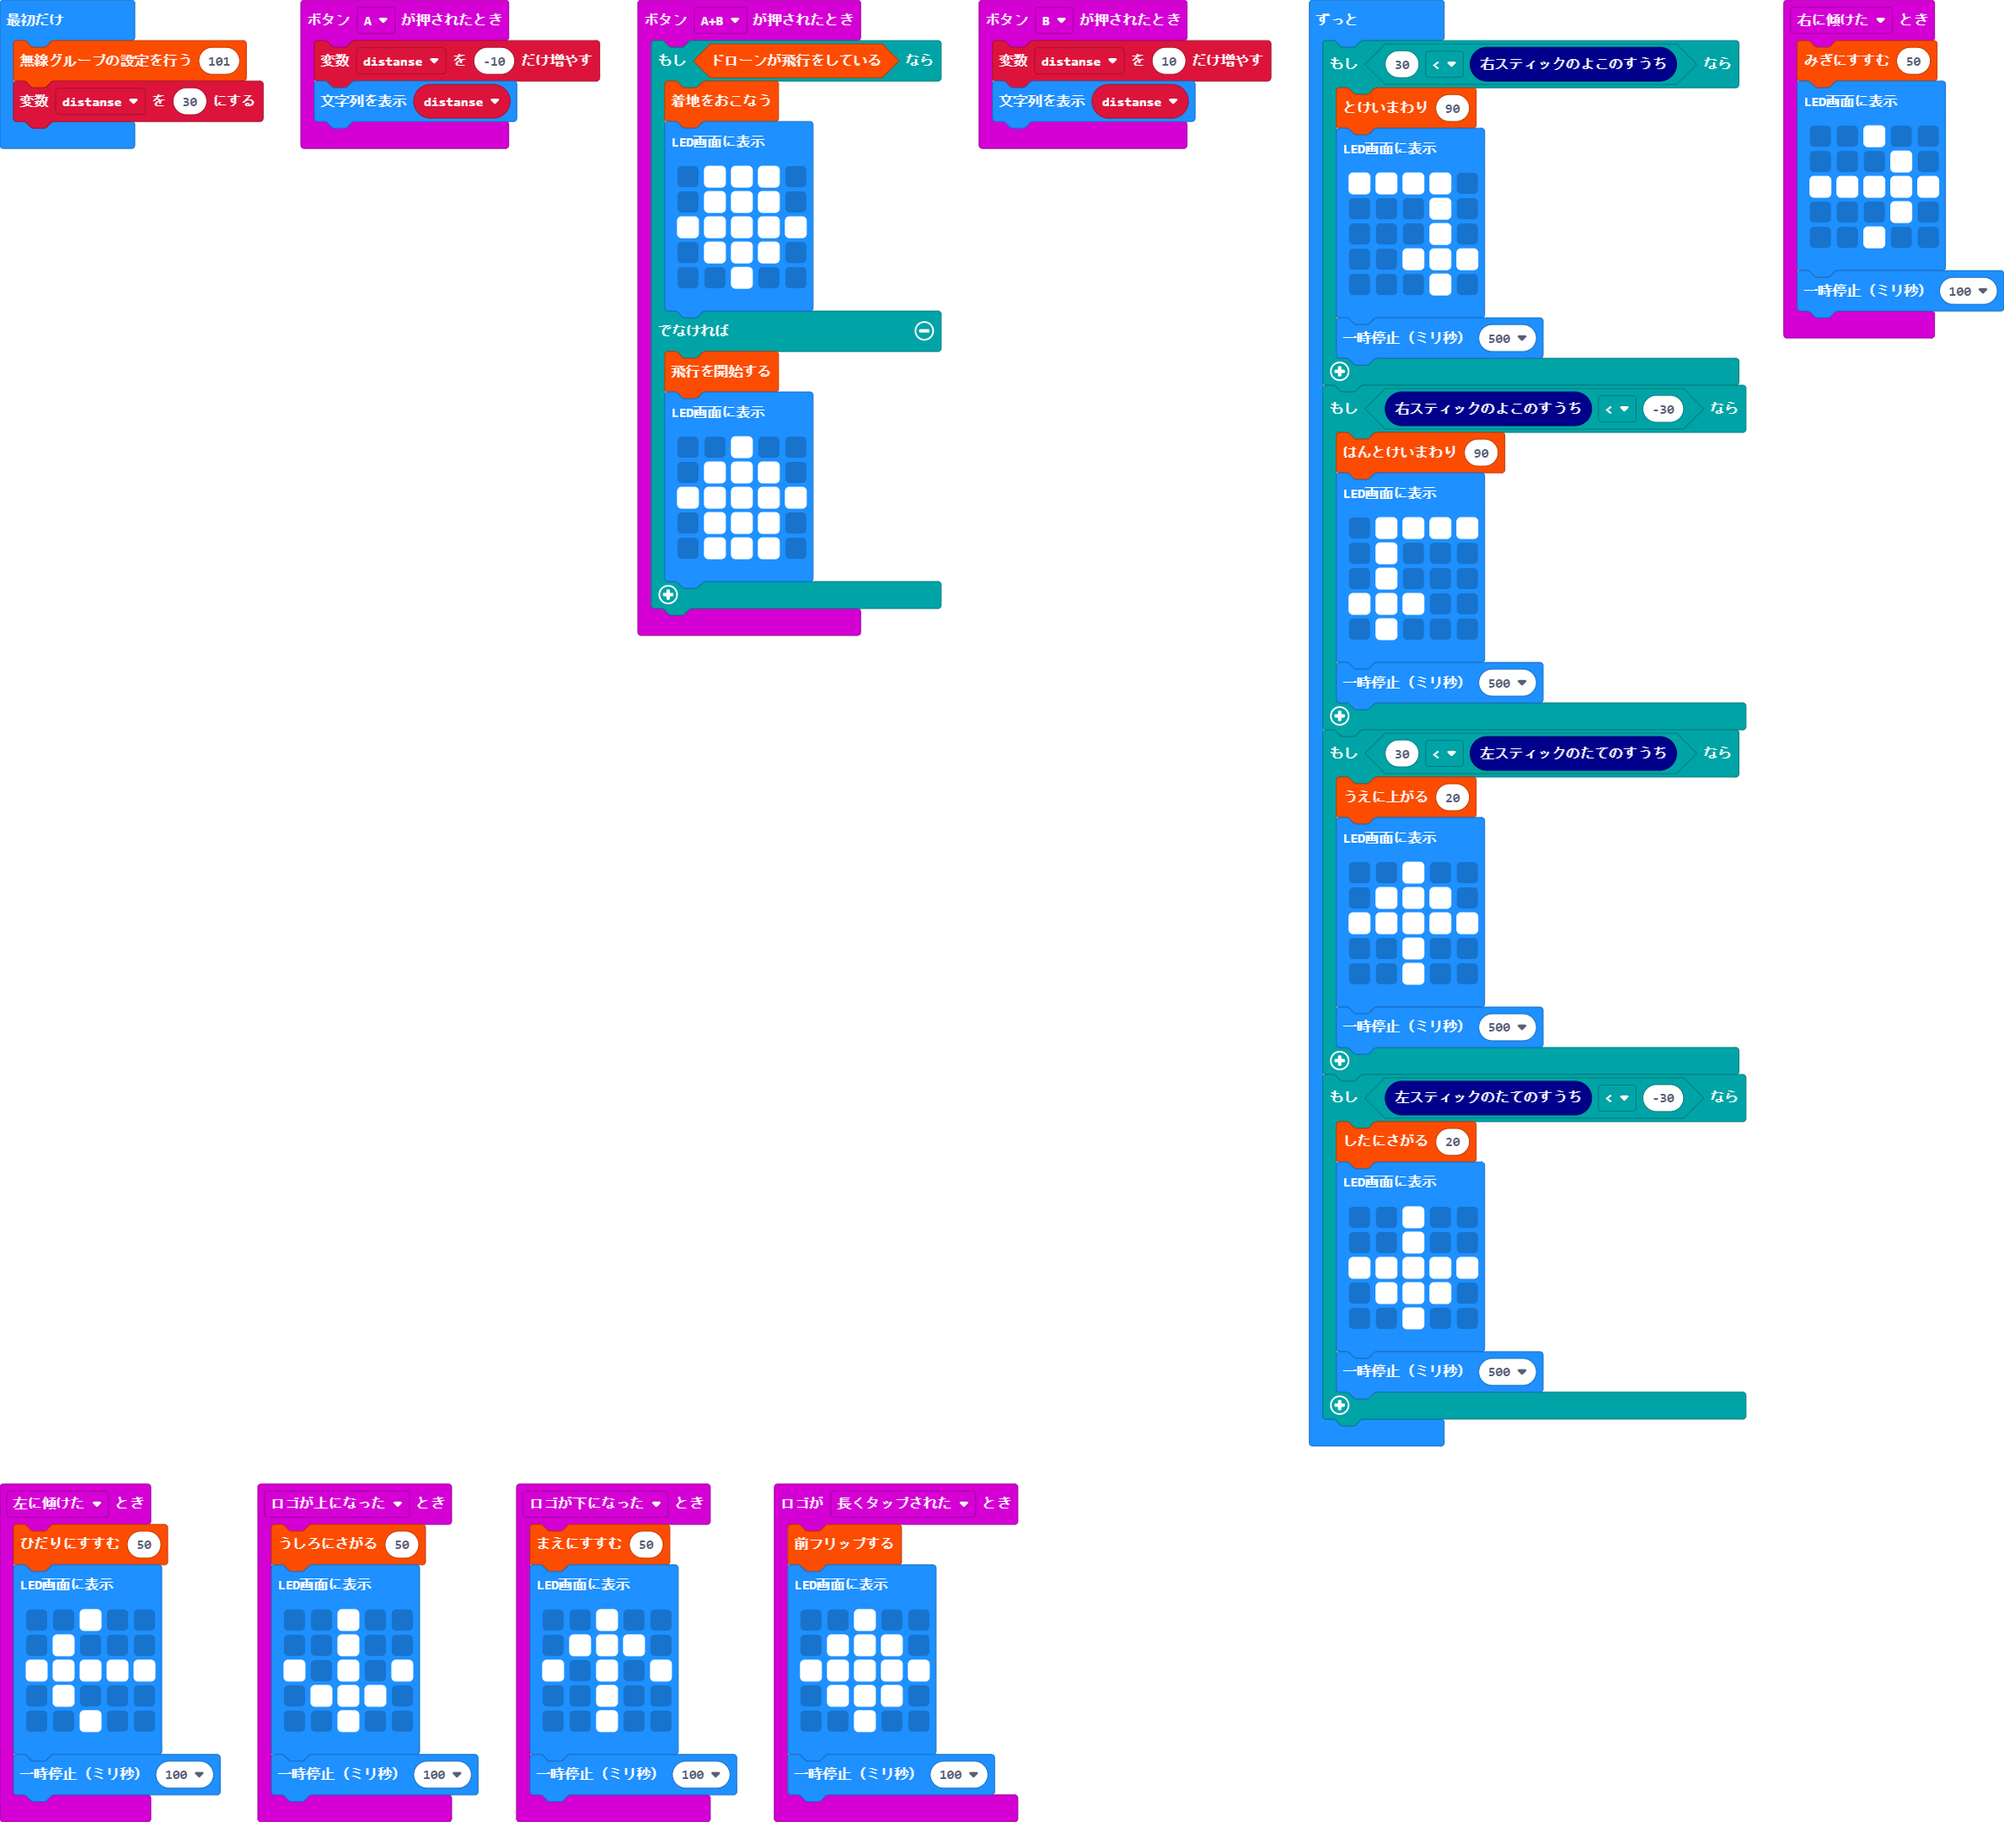
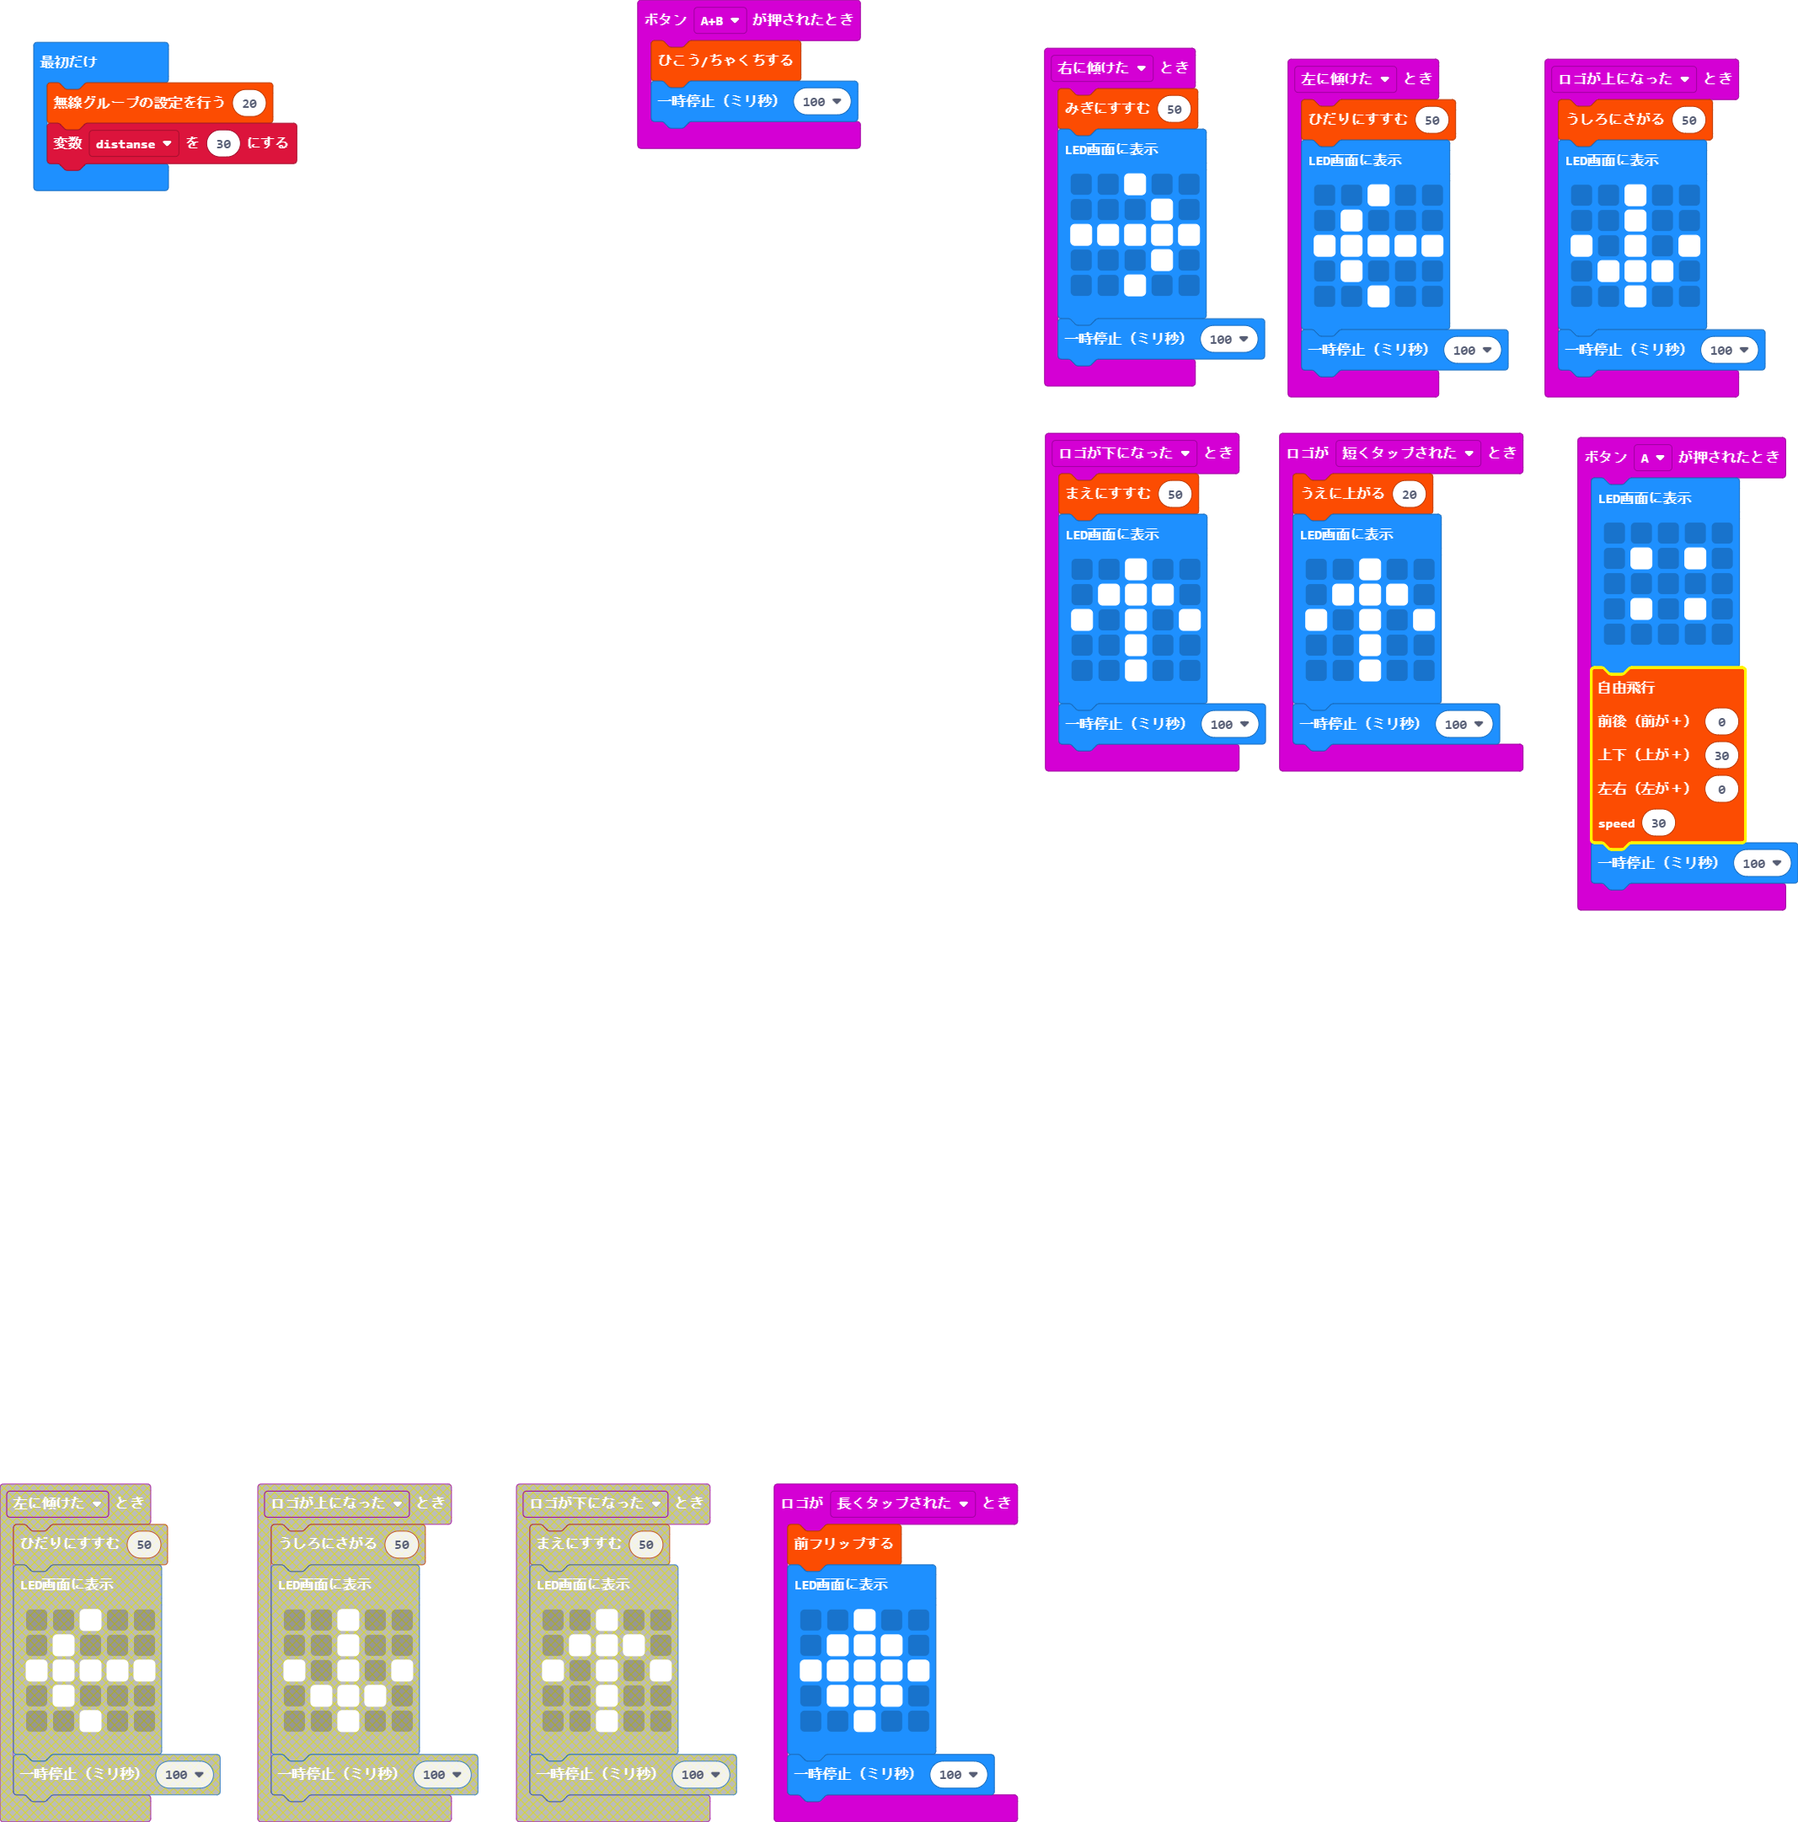
xyzの変更

diff --git a/main.ts b/main.ts
@@ -21,8 +21,20 @@ input.onGesture(Gesture.TiltRight, function () {
     basic.pause(100)
 })
 input.onButtonPressed(Button.A, function () {
-    distanse += -10
-    basic.showString("" + (distanse))
+    basic.showLeds(`
+        . . . . .
+        . # . # .
+        . . . . .
+        . # . # .
+        . . . . .
+        `)
+    Tello.xyz(
+    0,
+    30,
+    0,
+    30
+    )
+    basic.pause(100)
 })
 input.onGesture(Gesture.TiltLeft, function () {
     Tello.left(50)
@@ -58,76 +70,19 @@ input.onGesture(Gesture.LogoDown, function () {
     basic.pause(100)
 })
 input.onButtonPressed(Button.AB, function () {
-    if (Tello.getflying()) {
-        Tello.land()
-        basic.showLeds(`
-            . # # # .
-            . # # # .
-            # # # # #
-            . # # # .
-            . . # . .
-            `)
-    } else {
-        Tello.takeoff()
-        basic.showLeds(`
-            . . # . .
-            . # # # .
-            # # # # #
-            . # # # .
-            . # # # .
-            `)
-    }
+    Tello.fly_or_land()
+    basic.pause(100)
 })
-input.onButtonPressed(Button.B, function () {
-    distanse += 10
-    basic.showString("" + (distanse))
+input.onLogoEvent(TouchButtonEvent.Pressed, function () {
+    Tello.up(20)
+    basic.showLeds(`
+        . . # . .
+        . # # # .
+        # . # . #
+        . . # . .
+        . . # . .
+        `)
+    basic.pause(100)
 })
-let distanse = 0
-Tello.radiosetgroup(101)
-distanse = 30
-basic.forever(function () {
-    if (30 < dronecontroller.getright_X()) {
-        Tello.rotate_cw(90)
-        basic.showLeds(`
-            # # # # .
-            . . . # .
-            . . . # .
-            . . # # #
-            . . . # .
-            `)
-        basic.pause(500)
-    }
-    if (dronecontroller.getright_X() < -30) {
-        Tello.rotate_ccw(90)
-        basic.showLeds(`
-            . # # # #
-            . # . . .
-            . # . . .
-            # # # . .
-            . # . . .
-            `)
-        basic.pause(500)
-    }
-    if (30 < dronecontroller.getleft_Y()) {
-        Tello.up(20)
-        basic.showLeds(`
-            . . # . .
-            . # # # .
-            # # # # #
-            . . # . .
-            . . # . .
-            `)
-        basic.pause(500)
-    }
-    if (dronecontroller.getleft_Y() < -30) {
-        Tello.down(20)
-        basic.showLeds(`
-            . . # . .
-            . . # . .
-            # # # # #
-            . # # # .
-            . . # . .
-            `)
-        basic.pause(500)
-    }
-})
+Tello.radiosetgroup(20)
+let distanse = 30

diff --git a/custom.ts b/custom.ts
@@ -246,13 +246,13 @@ namespace Tello {
     }
 
     /**
-    * ドローンがxyzで移動します
+    * ドローンが三次元で移動します
     * @param x x -100-100, eg: 0
     * @param y y -100-100, eg: 0
     * @param z z -100-100, eg: 0
     * @param speed speed -100-100, eg: 0
     */
-    //% block="xyz | x %x y %y z %z speed %speed"
+    //% block="自由飛行 | 前後（前が＋） %x 上下（上が＋） %y 左右（左が＋） %z speed %speed"
     //% group="上級者向け"
     export function xyz(x: number, y: number, z: number, speed: number): void {
         if (flying == 1) {
